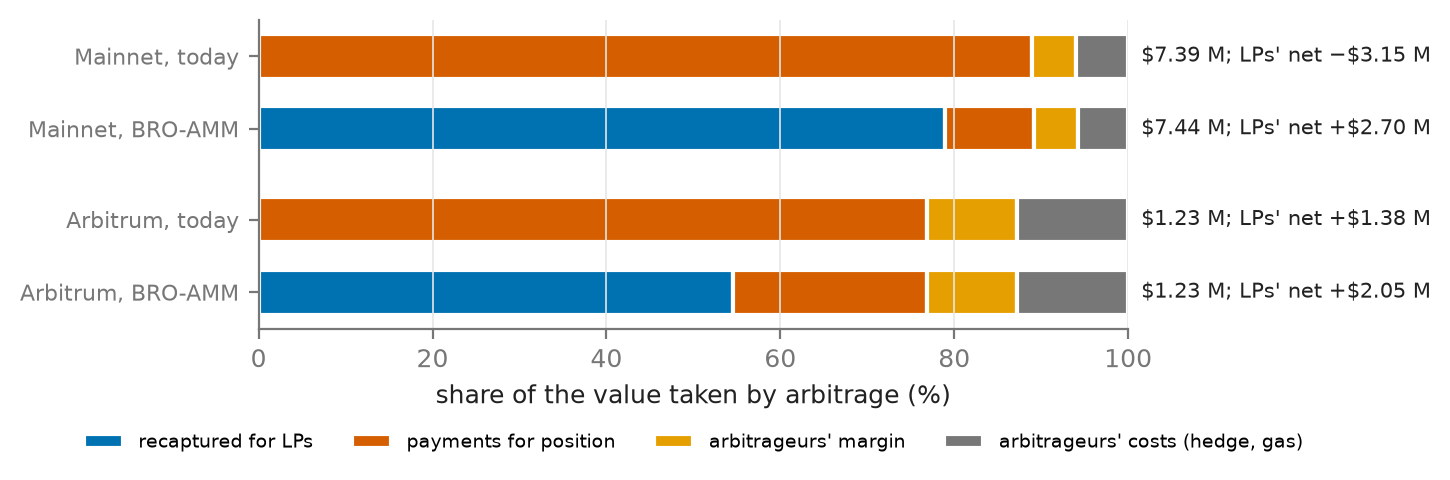
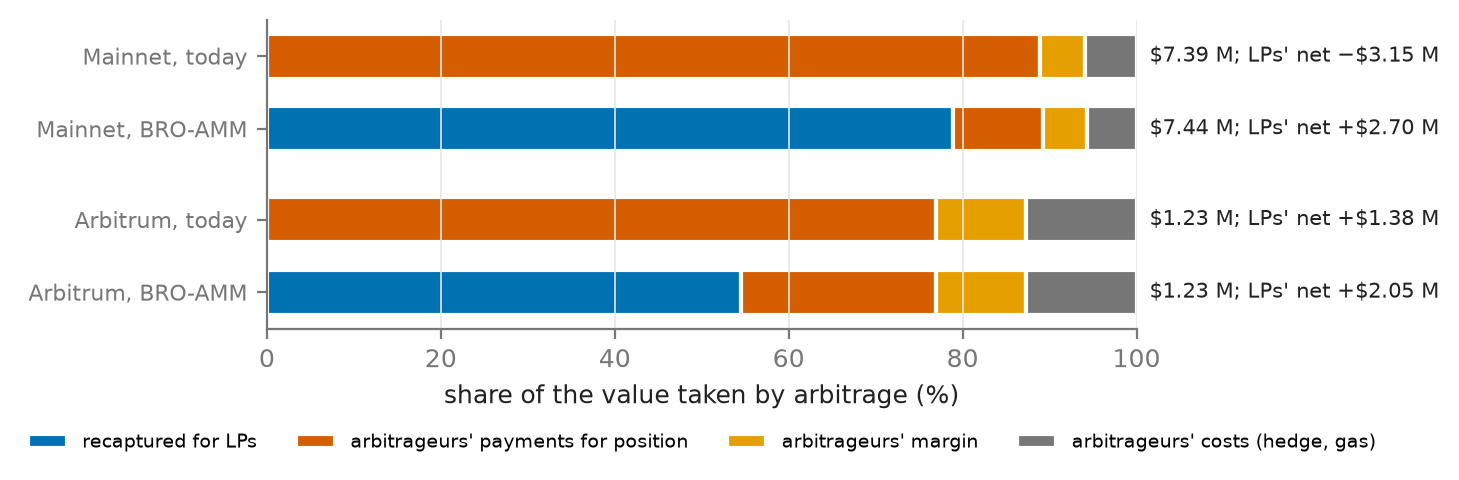
docs: paper says who pays whom for position
- Fixed documentation of "payments for position" as arbitrageurs' payments to block builders, defined in §5.1 and named so in the abstract, §5.3, Table 3, the conclusion and Appendix I
- Improved function figure legend and caption of the value split to name payer and recipient

diff --git a/pipeline/figures.py b/pipeline/figures.py
@@ -345,7 +345,7 @@ def value_split() -> None:
             parts = [x["lp_recapture_m"], x["builder_payments_m"], x["arb_margin_m"],
                      loss - x["builder_payments_m"] - x["arb_margin_m"]]
             bars.append((f"{chain}, {lab}", parts, x["lp_net_m"]))
-    segs = [("recaptured for LPs", C[0]), ("payments for position", C[3]),
+    segs = [("recaptured for LPs", C[0]), ("arbitrageurs' payments for position", C[3]),
             ("arbitrageurs' margin", C[1]), ("arbitrageurs' costs (hedge, gas)", MUTED)]
     fig, ax = plt.subplots(figsize=(7.4, 2.6))
     for k, (lab, parts, net) in enumerate(bars):

diff --git a/paper.rendered.md b/paper.rendered.md
@@ -6,7 +6,7 @@
 
 ## Abstract
 
-Liquidity providers (LPs) in automated market makers lose value to arbitrageurs trading against stale on-chain prices, and no existing AMM bounds this loss by design, so passive liquidity is not yet a low-risk DeFi primitive. BRO-AMM (Bonded Reconciliation Oracle AMM) is a Uniswap v4 hook built on one principle: after a block, chain history and signed market prices establish what each swap did to LPs, and that record can settle it. A price-correcting swap keeps an allowance per unit of volume, discovered on-chain; extraction beyond it is recaptured for LPs from stake posted before trading, which also bounds what arbitrageurs can pay for block position. Traders who overpay mint a reputation token (REP) that lowers their fees. On six months of Ethereum ETH/USDC data, a pool charging 3 bp instead of 5 bp leaves LPs ahead of today in every simulated scenario, by \$5.8–6.5M, while retail pays about 3.3 bp all-in and payments for position fall by 83–86%; an appendix adapts the design to Arbitrum's sequencer. Settlement costs 0.18× the gas of the swaps it settles.
+Liquidity providers (LPs) in automated market makers lose value to arbitrageurs trading against stale on-chain prices, and no existing AMM bounds this loss by design, so passive liquidity is not yet a low-risk DeFi primitive. BRO-AMM (Bonded Reconciliation Oracle AMM) is a Uniswap v4 hook built on one principle: after a block, chain history and signed market prices establish what each swap did to LPs, and that record can settle it. A price-correcting swap keeps an allowance per unit of volume, discovered on-chain; extraction beyond it is recaptured for LPs from stake posted before trading, which also bounds what arbitrageurs can pay for block position. Traders who overpay mint a reputation token (REP) that lowers their fees. On six months of Ethereum ETH/USDC data, a pool charging 3 bp instead of 5 bp leaves LPs ahead of today in every simulated scenario, by \$5.8–6.5M, while retail pays about 3.3 bp all-in and arbitrageurs' payments to block builders fall by 83–86%; an appendix adapts the design to Arbitrum's sequencer. Settlement costs 0.18× the gas of the swaps it settles.
 
 ## 1. Introduction
 
@@ -233,7 +233,7 @@ Above par, growing demand would price new intermediaries out of the discount. Mi
 
 ### 5.1 Data and method
 
-We study the Uniswap v3 ETH/USDC 5 bp pool on Ethereum mainnet from 1 March to 31 August 2026 (Table 2); Appendix I repeats the evaluation on the corresponding WETH/USDC pool on Arbitrum. The benchmark is Binance ETHUSDT corrected by USDCUSDT, with a touch-level bid/ask proxy built from aggressor-flagged trades. A stable–stable control pool, where no extraction is expected, scored a median absolute $Q_{\mathrm{LP}}$ of 0.9–1.1 bp (95th percentile 2.3 bp), inside the band within which the USDC/USDT peg itself moves (99th percentile 12.8 bp on mainnet). Designs are compared in a block-level simulation that replays the real oracle path and non-arbitrage flow against a population of optimising arbitrageurs with costs from 0.3 to 2.5 bp (Appendix C). Three cost scenarios hold these costs fixed or multiply them by four or by eight from June, and a *worst-case* figure is the least favourable of the three. *LPs' net* is the LPs' fee income less their losses to arbitrage over the six months, and *LPs' gain* its change from the same pool today. A design *keeps the pool rebalanced* if, relative to today, the share of blocks that end within the fee plus 1 bp of the benchmark falls by at most 0.5 percentage points and the volume-weighted staleness of the price users trade against rises by at most 0.1 bp.
+We study the Uniswap v3 ETH/USDC 5 bp pool on Ethereum mainnet from 1 March to 31 August 2026 (Table 2); Appendix I repeats the evaluation on the corresponding WETH/USDC pool on Arbitrum. The benchmark is Binance ETHUSDT corrected by USDCUSDT, with a touch-level bid/ask proxy built from aggressor-flagged trades. A stable–stable control pool, where no extraction is expected, scored a median absolute $Q_{\mathrm{LP}}$ of 0.9–1.1 bp (95th percentile 2.3 bp), inside the band within which the USDC/USDT peg itself moves (99th percentile 12.8 bp on mainnet). Designs are compared in a block-level simulation that replays the real oracle path and non-arbitrage flow against a population of optimising arbitrageurs with costs from 0.3 to 2.5 bp (Appendix C). Three cost scenarios hold these costs fixed or multiply them by four or by eight from June, and a *worst-case* figure is the least favourable of the three. *LPs' net* is the LPs' fee income less their losses to arbitrage over the six months, and *LPs' gain* its change from the same pool today. *Payments to builders* are what arbitrageurs pay block builders, directly or through priority fees, to have their corrections ordered first; they are part of what LPs lose to arbitrage. A design *keeps the pool rebalanced* if, relative to today, the share of blocks that end within the fee plus 1 bp of the benchmark falls by at most 0.5 percentage points and the volume-weighted staleness of the price users trade against rises by at most 0.1 bp.
 
 | | Ethereum mainnet |
 |---|---|
@@ -257,7 +257,7 @@ Because LPs keep most of what arbitrage took, a BRO-AMM pool can charge less tha
 | LPs' gain over today, worst cost scenario | — | +\$5.76 M |
 | Retail's price: fee + charges + REP holding | 5.00 bp | 3.31 bp |
 | Staleness of the price users trade at | 12.75 bp | 11.54 bp |
-| Payments for position | \$6.57 M | \$1.09 M |
+| Arbitrageurs' payments to builders | \$6.57 M | \$1.09 M |
 | Arbitrageurs' margin after costs | \$0.38 M | \$0.51 M |
 | Recaptured from arbitrageurs | — | \$6.74 M |
 | Charged to other correcting swaps | — | \$1.96 M |
@@ -265,13 +265,13 @@ Because LPs keep most of what arbitrage took, a BRO-AMM pool can charge less tha
 
 *Table 3. Today's pool against BRO-AMM at a lower fee, Ethereum mainnet. Retail's charges and holding cost are upper bounds: charges are measured against the mid price on today's, staler flow, and holding assumes daily epochs and an expected 50% annual loss on REP's price.*
 
-In every cost scenario, LPs end ahead of today by \$5.76–6.52 M, retail pays about 1.7 bp less, users trade against fresher prices, payments for position fall by 83–86%, and the pool is as well rebalanced as today. Arbitrageurs keep slightly more than today. Most of what other correcting swaps are charged comes from informed flow that is not arbitrage by our labels: unlabelled flow would pay 7 bp of its volume, retail aggregators 0.1–0.2 bp (Appendix G.5). The sensitivity studies below and in the appendices leave users' corrections uncharged, which understates LPs' result by about \$1.9 M.
+In every cost scenario, LPs end ahead of today by \$5.76–6.52 M, retail pays about 1.7 bp less, users trade against fresher prices, arbitrageurs' payments to builders fall by 83–86%, and the pool is as well rebalanced as today. Arbitrageurs keep slightly more than today. Most of what other correcting swaps are charged comes from informed flow that is not arbitrage by our labels: unlabelled flow would pay 7 bp of its volume, retail aggregators 0.1–0.2 bp (Appendix G.5). The sensitivity studies below and in the appendices leave users' corrections uncharged, which understates LPs' result by about \$1.9 M.
 
 ![Value split](figures/fig_value_split.png)
 
-*Figure 4. Division of the value taken by arbitrage at today's 5 bp fee, stable costs. Totals and LPs' net position at right.*
+*Figure 4. Division of the value taken by arbitrage at today's 5 bp fee, stable costs: recaptured for LPs, paid by arbitrageurs for position (to block builders on mainnet), kept by arbitrageurs as margin, or spent on their hedging and gas. Totals and LPs' net position at right.*
 
-At today's 5 bp fee the same mechanism moves value rather than creating it: arbitrage takes about as much from the pool as before, but most of what was spent competing for position is recaptured for LPs, while arbitrageurs' margin is unchanged (Figure 4, Table 5 in Appendix C). If users route away, the pool keeps a share of their flow, and LPs beat today even with none of it, by \$1.24 M in the worst case (Appendix C).
+At today's 5 bp fee the same mechanism moves value rather than creating it: arbitrage takes about as much from the pool as before, but most of what arbitrageurs paid block builders for position is recaptured for LPs, while arbitrageurs' margin is unchanged (Figure 4, Table 5 in Appendix C). If users route away, the pool keeps a share of their flow, and LPs beat today even with none of it, by \$1.24 M in the worst case (Appendix C).
 
 **How far the fee can fall.** LPs beat today at every fee down to 0.5 bp and stay positive down to 3 bp; if the cheaper quote draws other venues' flow and LPs follow with liquidity, their net per unit of liquidity at 3 bp rises from \$1.41 M to \$1.95 M at three times today's flow (Appendix C). On an arrival-ordered rollup the headroom is narrower: on Arbitrum users already close many small gaps for the fee alone, and the pool beats today at 4 bp but not at 3 bp (Appendix I).
 
@@ -327,7 +327,7 @@ The benchmark is a Binance touch proxy, so oracle error is modelled rather than 
 
 BRO-AMM is offered as a low-risk DeFi primitive for exchange. It shows that loss-versus-rebalancing can be recaptured by a plain Uniswap v4 hook (Uniswap Labs, n.d.), without delaying execution, without consulting an oracle at trade time and without relying on honest ordering. Execution remains synchronous; pricing is completed after the block against signed prices, at a decision instant that is measured from the data and shared by every swap in the block, so that no position buys a more lenient benchmark. Arbitrage is retained as a paid job whose allowance is discovered on-chain, extraction beyond the allowance is collected from stake posted before trading, and benign traders earn the stake that lowers their fees.
 
-On six months of Ethereum data, a fixed schedule applied with perfect information recaptured 73% of extraction while overcharging benign flow by less than 0.1 bp. With the allowance discovered on-chain, simulation shows the value that arbitrage takes moving from payments for position to LPs, enough for a pool to undercut the one it replaces: at 3 bp against today's 5 bp, LPs end ahead of today in every cost scenario, by \$5.8–6.5 M over six months, retail pays about 3.3 bp all-in, users trade at fresher prices, payments for position fall by 83–86%, and the pool stays as well rebalanced as today. On Arbitrum, where the sequencer orders by arrival, a count of competing senders replaces urgency and the pool undercuts today at 4 bp (Appendix I). An optional correction lane removes the dependence on arbitrage stake, and settlement costs 0.18 of the swaps' execution gas, paid from a tank that every swap prefunds. Its binding requirements are a sub-second oracle on fast chains and a tolerance matched to the feed's error. Its residual risks are the signed oracle, the contracts themselves and the market for REP; the last is bounded by solvency at par but not yet observed. Oracle error measured on the signed feed itself, the behaviour of REP in a live market, and a reputation shared across pools remain open.
+On six months of Ethereum data, a fixed schedule applied with perfect information recaptured 73% of extraction while overcharging benign flow by less than 0.1 bp. With the allowance discovered on-chain, simulation shows the value that arbitrage takes moving from arbitrageurs' payments to builders to LPs, enough for a pool to undercut the one it replaces: at 3 bp against today's 5 bp, LPs end ahead of today in every cost scenario, by \$5.8–6.5 M over six months, retail pays about 3.3 bp all-in, users trade at fresher prices, arbitrageurs' payments to builders fall by 83–86%, and the pool stays as well rebalanced as today. On Arbitrum, where the sequencer orders by arrival, a count of competing senders replaces urgency and the pool undercuts today at 4 bp (Appendix I). An optional correction lane removes the dependence on arbitrage stake, and settlement costs 0.18 of the swaps' execution gas, paid from a tank that every swap prefunds. Its binding requirements are a sub-second oracle on fast chains and a tolerance matched to the feed's error. Its residual risks are the signed oracle, the contracts themselves and the market for REP; the last is bounded by solvency at par but not yet observed. Oracle error measured on the signed feed itself, the behaviour of REP in a live market, and a reputation shared across pools remain open.
 
 ## Code and data availability
 
@@ -480,12 +480,12 @@ Every block is replayed in order — mainnet's 1.32 M, and all 63.4 M Arbitrum b
 | Fees from users | \$4.24 M | \$4.27 M | \$2.61 M | \$2.61 M |
 | Lost to arbitrage | \$7.39 M | \$1.57 M | \$1.23 M | \$0.56 M |
 | Recaptured from arbitrage | — | \$5.87 M | — | \$0.67 M |
-| Payments for position | \$6.57 M | \$0.77 M | \$0.94 M | \$0.27 M |
+| Arbitrageurs' payments for position | \$6.57 M | \$0.77 M | \$0.94 M | \$0.27 M |
 | Arbitrageurs' margin after costs | \$0.38 M | \$0.38 M | \$0.13 M | \$0.13 M |
 | Users' price staleness, volume-weighted | 12.75 bp | 12.54 bp | 4.28 bp | 4.28 bp |
 | Blocks ending within the band | 99.54% | 99.40% | 100.00% | 100.00% |
 
-*Table 5. Today's pools against BRO-AMM at today's 5 bp fee, users' corrections not charged. LPs' net is fees from users less what is lost to arbitrage after recapture.*
+*Table 5. Today's pools against BRO-AMM at today's 5 bp fee, users' corrections not charged. LPs' net is fees from users less what is lost to arbitrage after recapture. Arbitrageurs' payments for position go to block builders on mainnet and to winning the race to be ordered first on Arbitrum.*
 
 **Retention of user flow.** Every non-arbitrage swap is scaled by the share of user flow the pool keeps, its volume, fees and price impact alike, under the final design; LPs' gain is measured against today's pool at full flow.
 
@@ -633,7 +633,7 @@ An individual LP that extracts from its own pool to burn REP gains little by com
 
 *Table 10. LPs' worst-case gain over today across the three cost scenarios, for rejected variants of the correction lane; Table 4 gives the adopted design.*
 
-**F.5 Allowance bonuses.** Raising the allowance beyond the arbitrageur's cost is rent, and rent is competed away for position. A flat premium of 0.5 bp tripled payments to builders in an early simulation. A bonus proportional to the market's jump within a block, paid only for corrections in that block so that waiting forfeits it, cost LPs 17–31% of their worst-case gain on mainnet and 11–17% on Arbitrum at REP's mint rate, while payments for position roughly doubled; with REP valued below its mint rate it did not prevent stalls. Keying the bonus to the standing gap instead, which rewards waiting, did no better.
+**F.5 Allowance bonuses.** Raising the allowance beyond the arbitrageur's cost is rent, and rent is competed away for position. A flat premium of 0.5 bp tripled payments to builders in an early simulation. A bonus proportional to the market's jump within a block, paid only for corrections in that block so that waiting forfeits it, cost LPs 17–31% of their worst-case gain on mainnet and 11–17% on Arbitrum at REP's mint rate, while arbitrageurs' payments to builders roughly doubled; with REP valued below its mint rate it did not prevent stalls. Keying the bonus to the standing gap instead, which rewards waiting, did no better.
 
 **F.6 Premium mint.** An arbitrageur without stake pays $f_{\max}$; minting it REP at the internal rate for the premium above $f_{\min}$, net of its charge, lets its first trades buy the stake that lowers its later fees. Valued at par, this bootstrapped a pool from zero stake at $f_{\max}$ up to 2,000 bp on both chains, matching the fully staked result. But an arbitrageur that values REP at a fraction $v$ of par bears a hurdle of about $(1 - v)(f_{\max} - f_{\min})$ per unit of volume, and the pool tolerated little discount: at $v$ = 0.99 it passed the rebalancing test only at $f_{\max}$ = 500 bp, losing 15% of LPs' gain; at $v$ = 0.98 it failed; and at $v$ = 0.95 it froze for $f_{\max} \ge$ 1,000 bp. Liveness would rest on REP trading at its mint rate, which §4.9 does not guarantee; the correction lane does not depend on it.
 
@@ -737,7 +737,7 @@ Each rollup orders transactions by its own sequencer rules, so the competition s
 
 **Express-lane concentration.** On Arbitrum, three entities won almost all Timeboost auctions (Messias and Torres 2025). With one of three express-lane holders winning, in each one-minute round, every correction it can profit from, and every correcting swap charged, LPs' worst-case gain at 5 bp is +\$0.60 M with $K_{\min} = 4$ and +\$0.84 M with $K_{\min} = 3$, against +\$0.83 M in an open race: requiring four senders when three dominate keeps the allowance higher, whereas three recovers the open-race result. Both keep the pool rebalanced.
 
-**I.3 Results.** Every correcting swap charged, the sender rule at $K_{\min} = 3$ and a 4 bp fee leave LPs ahead of today's 5 bp pool by \$0.38–0.59 M across the cost scenarios (\$1.97 M against \$1.38 M with stable costs), with retail paying about 4.38 bp all-in (4 bp, 0.20–0.26 bp of retail charges, up to 0.12 bp of REP holding), users trading at fresher prices (3.62 against 4.28 bp), payments for position falling from \$0.94 M to \$0.24 M, and the pool as rebalanced as today. At 3 bp the sender rule falls short of today, because users already close many small gaps for the fee alone and a lower fee hands them to paid arbitrageurs (Table 7 in Appendix C). With users' corrections uncharged, LPs at today's fee gain \$0.65 M in the worst case; if users route away, LPs need to keep about 85% of their flow, because users' own trades do part of the rebalancing (Table 6). The sender rule settles at 1.46 bp and absorbs the cost shock without a raise (Figure 11), and under dropout and withholding costs 2% of LPs' gain (Table 11). Without arbitrage stake, fresh accounts take nothing at $f_{\max}$ = 500 bp; stake of about 25 times $\rho$ times mean daily arbitrage volume, \$0.34 M, keeps the pool rebalanced if one staker covers all arbitrageurs; and the correction lane restores the fully staked result, \$0.65 M, unless its report is a second old, when the gain falls to \$0.23 M: a one-second-old feed halves recapture, so rollups require a sub-second pull oracle (§5.7). Settlement costs 0.19× the execution gas of the settled swaps, and a gas tank needs 0.64 k gas per swap (Figures 13–14).
+**I.3 Results.** Every correcting swap charged, the sender rule at $K_{\min} = 3$ and a 4 bp fee leave LPs ahead of today's 5 bp pool by \$0.38–0.59 M across the cost scenarios (\$1.97 M against \$1.38 M with stable costs), with retail paying about 4.38 bp all-in (4 bp, 0.20–0.26 bp of retail charges, up to 0.12 bp of REP holding), users trading at fresher prices (3.62 against 4.28 bp), arbitrageurs' spending to be ordered first falling from \$0.94 M to \$0.24 M, and the pool as rebalanced as today. At 3 bp the sender rule falls short of today, because users already close many small gaps for the fee alone and a lower fee hands them to paid arbitrageurs (Table 7 in Appendix C). With users' corrections uncharged, LPs at today's fee gain \$0.65 M in the worst case; if users route away, LPs need to keep about 85% of their flow, because users' own trades do part of the rebalancing (Table 6). The sender rule settles at 1.46 bp and absorbs the cost shock without a raise (Figure 11), and under dropout and withholding costs 2% of LPs' gain (Table 11). Without arbitrage stake, fresh accounts take nothing at $f_{\max}$ = 500 bp; stake of about 25 times $\rho$ times mean daily arbitrage volume, \$0.34 M, keeps the pool rebalanced if one staker covers all arbitrageurs; and the correction lane restores the fully staked result, \$0.65 M, unless its report is a second old, when the gain falls to \$0.23 M: a one-second-old feed halves recapture, so rollups require a sub-second pull oracle (§5.7). Settlement costs 0.19× the execution gas of the settled swaps, and a gas tank needs 0.64 k gas per swap (Figures 13–14).
 
 **I.4 A per-gap reverse auction.** Instead of one allowance for all corrections, each gap's allowance could start low and rise with its age, $m(t) = \min(m_0 + \text{slope} \cdot \text{age}, m_{\text{cap}})$, so that the first corrector whose cost it covers takes the gap at that price; correctors then compete on the price they will work for, gap by gap. The age is computed at reconciliation from the same signed prices as the charge, and resets only when a block ends within $f + \varepsilon + m$ of the benchmark, so that a token correction cannot hold the allowance down. On Arbitrum, with $m_0$ = 0.5 bp, a 5 bp cap and every correcting swap charged, the ramp beats the sender rule when arbitrageurs act as soon as the allowance covers their cost, but not when they hold out for a margin above it, which a reverse Dutch auction invites. A slow ramp then leaves gaps standing; a steep one pays a whole step of about 1 bp per 250 ms block:
 

diff --git a/paper.md b/paper.md
@@ -4,7 +4,7 @@
 
 ## Abstract
 
-Liquidity providers (LPs) in automated market makers lose value to arbitrageurs trading against stale on-chain prices, and no existing AMM bounds this loss by design, so passive liquidity is not yet a low-risk DeFi primitive. BRO-AMM (Bonded Reconciliation Oracle AMM) is a Uniswap v4 hook built on one principle: after a block, chain history and signed market prices establish what each swap did to LPs, and that record can settle it. A price-correcting swap keeps an allowance per unit of volume, discovered on-chain; extraction beyond it is recaptured for LPs from stake posted before trading, which also bounds what arbitrageurs can pay for block position. Traders who overpay mint a reputation token (REP) that lowers their fees. On six months of Ethereum ETH/USDC data, a pool charging 3 bp instead of 5 bp leaves LPs ahead of today in every simulated scenario, by \$5.8–6.5M, while retail pays about 3.3 bp all-in and payments for position fall by 83–86%; an appendix adapts the design to Arbitrum's sequencer. Settlement costs 0.18× the gas of the swaps it settles.
+Liquidity providers (LPs) in automated market makers lose value to arbitrageurs trading against stale on-chain prices, and no existing AMM bounds this loss by design, so passive liquidity is not yet a low-risk DeFi primitive. BRO-AMM (Bonded Reconciliation Oracle AMM) is a Uniswap v4 hook built on one principle: after a block, chain history and signed market prices establish what each swap did to LPs, and that record can settle it. A price-correcting swap keeps an allowance per unit of volume, discovered on-chain; extraction beyond it is recaptured for LPs from stake posted before trading, which also bounds what arbitrageurs can pay for block position. Traders who overpay mint a reputation token (REP) that lowers their fees. On six months of Ethereum ETH/USDC data, a pool charging 3 bp instead of 5 bp leaves LPs ahead of today in every simulated scenario, by \$5.8–6.5M, while retail pays about 3.3 bp all-in and arbitrageurs' payments to block builders fall by 83–86%; an appendix adapts the design to Arbitrum's sequencer. Settlement costs 0.18× the gas of the swaps it settles.
 
 ## 1. Introduction
 
@@ -231,7 +231,7 @@ Above par, growing demand would price new intermediaries out of the discount. Mi
 
 ### 5.1 Data and method
 
-We study the Uniswap v3 ETH/USDC 5 bp pool on Ethereum mainnet from 1 March to 31 August 2026 (Table 2); Appendix I repeats the evaluation on the corresponding WETH/USDC pool on Arbitrum. The benchmark is Binance ETHUSDT corrected by USDCUSDT, with a touch-level bid/ask proxy built from aggressor-flagged trades. A stable–stable control pool, where no extraction is expected, scored a median absolute $Q_{\mathrm{LP}}$ of 0.9–1.1 bp (95th percentile 2.3 bp), inside the band within which the USDC/USDT peg itself moves (99th percentile 12.8 bp on mainnet). Designs are compared in a block-level simulation that replays the real oracle path and non-arbitrage flow against a population of optimising arbitrageurs with costs from 0.3 to 2.5 bp (Appendix C). Three cost scenarios hold these costs fixed or multiply them by four or by eight from June, and a *worst-case* figure is the least favourable of the three. *LPs' net* is the LPs' fee income less their losses to arbitrage over the six months, and *LPs' gain* its change from the same pool today. A design *keeps the pool rebalanced* if, relative to today, the share of blocks that end within the fee plus 1 bp of the benchmark falls by at most 0.5 percentage points and the volume-weighted staleness of the price users trade against rises by at most 0.1 bp.
+We study the Uniswap v3 ETH/USDC 5 bp pool on Ethereum mainnet from 1 March to 31 August 2026 (Table 2); Appendix I repeats the evaluation on the corresponding WETH/USDC pool on Arbitrum. The benchmark is Binance ETHUSDT corrected by USDCUSDT, with a touch-level bid/ask proxy built from aggressor-flagged trades. A stable–stable control pool, where no extraction is expected, scored a median absolute $Q_{\mathrm{LP}}$ of 0.9–1.1 bp (95th percentile 2.3 bp), inside the band within which the USDC/USDT peg itself moves (99th percentile 12.8 bp on mainnet). Designs are compared in a block-level simulation that replays the real oracle path and non-arbitrage flow against a population of optimising arbitrageurs with costs from 0.3 to 2.5 bp (Appendix C). Three cost scenarios hold these costs fixed or multiply them by four or by eight from June, and a *worst-case* figure is the least favourable of the three. *LPs' net* is the LPs' fee income less their losses to arbitrage over the six months, and *LPs' gain* its change from the same pool today. *Payments to builders* are what arbitrageurs pay block builders, directly or through priority fees, to have their corrections ordered first; they are part of what LPs lose to arbitrage. A design *keeps the pool rebalanced* if, relative to today, the share of blocks that end within the fee plus 1 bp of the benchmark falls by at most 0.5 percentage points and the volume-weighted staleness of the price users trade against rises by at most 0.1 bp.
 
 | | Ethereum mainnet |
 |---|---|
@@ -255,7 +255,7 @@ Because LPs keep most of what arbitrage took, a BRO-AMM pool can charge less tha
 | LPs' gain over today, worst cost scenario | — | +\$5.76 M |
 | Retail's price: fee + charges + REP holding | 5.00 bp | 3.31 bp |
 | Staleness of the price users trade at | 12.75 bp | 11.54 bp |
-| Payments for position | \$6.57 M | \$1.09 M |
+| Arbitrageurs' payments to builders | \$6.57 M | \$1.09 M |
 | Arbitrageurs' margin after costs | \$0.38 M | \$0.51 M |
 | Recaptured from arbitrageurs | — | \$6.74 M |
 | Charged to other correcting swaps | — | \$1.96 M |
@@ -263,13 +263,13 @@ Because LPs keep most of what arbitrage took, a BRO-AMM pool can charge less tha
 
 *Table 3. Today's pool against BRO-AMM at a lower fee, Ethereum mainnet. Retail's charges and holding cost are upper bounds: charges are measured against the mid price on today's, staler flow, and holding assumes daily epochs and an expected 50% annual loss on REP's price.*
 
-In every cost scenario, LPs end ahead of today by \$5.76–6.52 M, retail pays about 1.7 bp less, users trade against fresher prices, payments for position fall by 83–86%, and the pool is as well rebalanced as today. Arbitrageurs keep slightly more than today. Most of what other correcting swaps are charged comes from informed flow that is not arbitrage by our labels: unlabelled flow would pay 7 bp of its volume, retail aggregators 0.1–0.2 bp (Appendix G.5). The sensitivity studies below and in the appendices leave users' corrections uncharged, which understates LPs' result by about \$1.9 M.
+In every cost scenario, LPs end ahead of today by \$5.76–6.52 M, retail pays about 1.7 bp less, users trade against fresher prices, arbitrageurs' payments to builders fall by 83–86%, and the pool is as well rebalanced as today. Arbitrageurs keep slightly more than today. Most of what other correcting swaps are charged comes from informed flow that is not arbitrage by our labels: unlabelled flow would pay 7 bp of its volume, retail aggregators 0.1–0.2 bp (Appendix G.5). The sensitivity studies below and in the appendices leave users' corrections uncharged, which understates LPs' result by about \$1.9 M.
 
 ![Value split](figures/fig_value_split.png)
 
-*Figure 4. Division of the value taken by arbitrage at today's 5 bp fee, stable costs. Totals and LPs' net position at right.*
+*Figure 4. Division of the value taken by arbitrage at today's 5 bp fee, stable costs: recaptured for LPs, paid by arbitrageurs for position (to block builders on mainnet), kept by arbitrageurs as margin, or spent on their hedging and gas. Totals and LPs' net position at right.*
 
-At today's 5 bp fee the same mechanism moves value rather than creating it: arbitrage takes about as much from the pool as before, but most of what was spent competing for position is recaptured for LPs, while arbitrageurs' margin is unchanged (Figure 4, Table 5 in Appendix C). If users route away, the pool keeps a share of their flow, and LPs beat today even with none of it, by \$1.24 M in the worst case (Appendix C).
+At today's 5 bp fee the same mechanism moves value rather than creating it: arbitrage takes about as much from the pool as before, but most of what arbitrageurs paid block builders for position is recaptured for LPs, while arbitrageurs' margin is unchanged (Figure 4, Table 5 in Appendix C). If users route away, the pool keeps a share of their flow, and LPs beat today even with none of it, by \$1.24 M in the worst case (Appendix C).
 
 **How far the fee can fall.** LPs beat today at every fee down to 0.5 bp and stay positive down to 3 bp; if the cheaper quote draws other venues' flow and LPs follow with liquidity, their net per unit of liquidity at 3 bp rises from \$1.41 M to \$1.95 M at three times today's flow (Appendix C). On an arrival-ordered rollup the headroom is narrower: on Arbitrum users already close many small gaps for the fee alone, and the pool beats today at 4 bp but not at 3 bp (Appendix I).
 
@@ -325,7 +325,7 @@ The benchmark is a Binance touch proxy, so oracle error is modelled rather than 
 
 BRO-AMM is offered as a low-risk DeFi primitive for exchange. It shows that loss-versus-rebalancing can be recaptured by a plain Uniswap v4 hook [@uniswapV4core], without delaying execution, without consulting an oracle at trade time and without relying on honest ordering. Execution remains synchronous; pricing is completed after the block against signed prices, at a decision instant that is measured from the data and shared by every swap in the block, so that no position buys a more lenient benchmark. Arbitrage is retained as a paid job whose allowance is discovered on-chain, extraction beyond the allowance is collected from stake posted before trading, and benign traders earn the stake that lowers their fees.
 
-On six months of Ethereum data, a fixed schedule applied with perfect information recaptured 73% of extraction while overcharging benign flow by less than 0.1 bp. With the allowance discovered on-chain, simulation shows the value that arbitrage takes moving from payments for position to LPs, enough for a pool to undercut the one it replaces: at 3 bp against today's 5 bp, LPs end ahead of today in every cost scenario, by \$5.8–6.5 M over six months, retail pays about 3.3 bp all-in, users trade at fresher prices, payments for position fall by 83–86%, and the pool stays as well rebalanced as today. On Arbitrum, where the sequencer orders by arrival, a count of competing senders replaces urgency and the pool undercuts today at 4 bp (Appendix I). An optional correction lane removes the dependence on arbitrage stake, and settlement costs 0.18 of the swaps' execution gas, paid from a tank that every swap prefunds. Its binding requirements are a sub-second oracle on fast chains and a tolerance matched to the feed's error. Its residual risks are the signed oracle, the contracts themselves and the market for REP; the last is bounded by solvency at par but not yet observed. Oracle error measured on the signed feed itself, the behaviour of REP in a live market, and a reputation shared across pools remain open.
+On six months of Ethereum data, a fixed schedule applied with perfect information recaptured 73% of extraction while overcharging benign flow by less than 0.1 bp. With the allowance discovered on-chain, simulation shows the value that arbitrage takes moving from arbitrageurs' payments to builders to LPs, enough for a pool to undercut the one it replaces: at 3 bp against today's 5 bp, LPs end ahead of today in every cost scenario, by \$5.8–6.5 M over six months, retail pays about 3.3 bp all-in, users trade at fresher prices, arbitrageurs' payments to builders fall by 83–86%, and the pool stays as well rebalanced as today. On Arbitrum, where the sequencer orders by arrival, a count of competing senders replaces urgency and the pool undercuts today at 4 bp (Appendix I). An optional correction lane removes the dependence on arbitrage stake, and settlement costs 0.18 of the swaps' execution gas, paid from a tank that every swap prefunds. Its binding requirements are a sub-second oracle on fast chains and a tolerance matched to the feed's error. Its residual risks are the signed oracle, the contracts themselves and the market for REP; the last is bounded by solvency at par but not yet observed. Oracle error measured on the signed feed itself, the behaviour of REP in a live market, and a reputation shared across pools remain open.
 
 ## Code and data availability
 
@@ -418,12 +418,12 @@ Every block is replayed in order — mainnet's 1.32 M, and all 63.4 M Arbitrum b
 | Fees from users | \$4.24 M | \$4.27 M | \$2.61 M | \$2.61 M |
 | Lost to arbitrage | \$7.39 M | \$1.57 M | \$1.23 M | \$0.56 M |
 | Recaptured from arbitrage | — | \$5.87 M | — | \$0.67 M |
-| Payments for position | \$6.57 M | \$0.77 M | \$0.94 M | \$0.27 M |
+| Arbitrageurs' payments for position | \$6.57 M | \$0.77 M | \$0.94 M | \$0.27 M |
 | Arbitrageurs' margin after costs | \$0.38 M | \$0.38 M | \$0.13 M | \$0.13 M |
 | Users' price staleness, volume-weighted | 12.75 bp | 12.54 bp | 4.28 bp | 4.28 bp |
 | Blocks ending within the band | 99.54% | 99.40% | 100.00% | 100.00% |
 
-*Table 5. Today's pools against BRO-AMM at today's 5 bp fee, users' corrections not charged. LPs' net is fees from users less what is lost to arbitrage after recapture.*
+*Table 5. Today's pools against BRO-AMM at today's 5 bp fee, users' corrections not charged. LPs' net is fees from users less what is lost to arbitrage after recapture. Arbitrageurs' payments for position go to block builders on mainnet and to winning the race to be ordered first on Arbitrum.*
 
 **Retention of user flow.** Every non-arbitrage swap is scaled by the share of user flow the pool keeps, its volume, fees and price impact alike, under the final design; LPs' gain is measured against today's pool at full flow.
 
@@ -571,7 +571,7 @@ An individual LP that extracts from its own pool to burn REP gains little by com
 
 *Table 10. LPs' worst-case gain over today across the three cost scenarios, for rejected variants of the correction lane; Table 4 gives the adopted design.*
 
-**F.5 Allowance bonuses.** Raising the allowance beyond the arbitrageur's cost is rent, and rent is competed away for position. A flat premium of 0.5 bp tripled payments to builders in an early simulation. A bonus proportional to the market's jump within a block, paid only for corrections in that block so that waiting forfeits it, cost LPs 17–31% of their worst-case gain on mainnet and 11–17% on Arbitrum at REP's mint rate, while payments for position roughly doubled; with REP valued below its mint rate it did not prevent stalls. Keying the bonus to the standing gap instead, which rewards waiting, did no better.
+**F.5 Allowance bonuses.** Raising the allowance beyond the arbitrageur's cost is rent, and rent is competed away for position. A flat premium of 0.5 bp tripled payments to builders in an early simulation. A bonus proportional to the market's jump within a block, paid only for corrections in that block so that waiting forfeits it, cost LPs 17–31% of their worst-case gain on mainnet and 11–17% on Arbitrum at REP's mint rate, while arbitrageurs' payments to builders roughly doubled; with REP valued below its mint rate it did not prevent stalls. Keying the bonus to the standing gap instead, which rewards waiting, did no better.
 
 **F.6 Premium mint.** An arbitrageur without stake pays $f_{\max}$; minting it REP at the internal rate for the premium above $f_{\min}$, net of its charge, lets its first trades buy the stake that lowers its later fees. Valued at par, this bootstrapped a pool from zero stake at $f_{\max}$ up to 2,000 bp on both chains, matching the fully staked result. But an arbitrageur that values REP at a fraction $v$ of par bears a hurdle of about $(1 - v)(f_{\max} - f_{\min})$ per unit of volume, and the pool tolerated little discount: at $v$ = 0.99 it passed the rebalancing test only at $f_{\max}$ = 500 bp, losing 15% of LPs' gain; at $v$ = 0.98 it failed; and at $v$ = 0.95 it froze for $f_{\max} \ge$ 1,000 bp. Liveness would rest on REP trading at its mint rate, which §4.9 does not guarantee; the correction lane does not depend on it.
 
@@ -675,7 +675,7 @@ Each rollup orders transactions by its own sequencer rules, so the competition s
 
 **Express-lane concentration.** On Arbitrum, three entities won almost all Timeboost auctions [@messias2025timeboost]. With one of three express-lane holders winning, in each one-minute round, every correction it can profit from, and every correcting swap charged, LPs' worst-case gain at 5 bp is +\$0.60 M with $K_{\min} = 4$ and +\$0.84 M with $K_{\min} = 3$, against +\$0.83 M in an open race: requiring four senders when three dominate keeps the allowance higher, whereas three recovers the open-race result. Both keep the pool rebalanced.
 
-**I.3 Results.** Every correcting swap charged, the sender rule at $K_{\min} = 3$ and a 4 bp fee leave LPs ahead of today's 5 bp pool by \$0.38–0.59 M across the cost scenarios (\$1.97 M against \$1.38 M with stable costs), with retail paying about 4.38 bp all-in (4 bp, 0.20–0.26 bp of retail charges, up to 0.12 bp of REP holding), users trading at fresher prices (3.62 against 4.28 bp), payments for position falling from \$0.94 M to \$0.24 M, and the pool as rebalanced as today. At 3 bp the sender rule falls short of today, because users already close many small gaps for the fee alone and a lower fee hands them to paid arbitrageurs (Table 7 in Appendix C). With users' corrections uncharged, LPs at today's fee gain \$0.65 M in the worst case; if users route away, LPs need to keep about 85% of their flow, because users' own trades do part of the rebalancing (Table 6). The sender rule settles at 1.46 bp and absorbs the cost shock without a raise (Figure 11), and under dropout and withholding costs 2% of LPs' gain (Table 11). Without arbitrage stake, fresh accounts take nothing at $f_{\max}$ = 500 bp; stake of about 25 times $\rho$ times mean daily arbitrage volume, \$0.34 M, keeps the pool rebalanced if one staker covers all arbitrageurs; and the correction lane restores the fully staked result, \$0.65 M, unless its report is a second old, when the gain falls to \$0.23 M: a one-second-old feed halves recapture, so rollups require a sub-second pull oracle (§5.7). Settlement costs 0.19× the execution gas of the settled swaps, and a gas tank needs 0.64 k gas per swap (Figures 13–14).
+**I.3 Results.** Every correcting swap charged, the sender rule at $K_{\min} = 3$ and a 4 bp fee leave LPs ahead of today's 5 bp pool by \$0.38–0.59 M across the cost scenarios (\$1.97 M against \$1.38 M with stable costs), with retail paying about 4.38 bp all-in (4 bp, 0.20–0.26 bp of retail charges, up to 0.12 bp of REP holding), users trading at fresher prices (3.62 against 4.28 bp), arbitrageurs' spending to be ordered first falling from \$0.94 M to \$0.24 M, and the pool as rebalanced as today. At 3 bp the sender rule falls short of today, because users already close many small gaps for the fee alone and a lower fee hands them to paid arbitrageurs (Table 7 in Appendix C). With users' corrections uncharged, LPs at today's fee gain \$0.65 M in the worst case; if users route away, LPs need to keep about 85% of their flow, because users' own trades do part of the rebalancing (Table 6). The sender rule settles at 1.46 bp and absorbs the cost shock without a raise (Figure 11), and under dropout and withholding costs 2% of LPs' gain (Table 11). Without arbitrage stake, fresh accounts take nothing at $f_{\max}$ = 500 bp; stake of about 25 times $\rho$ times mean daily arbitrage volume, \$0.34 M, keeps the pool rebalanced if one staker covers all arbitrageurs; and the correction lane restores the fully staked result, \$0.65 M, unless its report is a second old, when the gain falls to \$0.23 M: a one-second-old feed halves recapture, so rollups require a sub-second pull oracle (§5.7). Settlement costs 0.19× the execution gas of the settled swaps, and a gas tank needs 0.64 k gas per swap (Figures 13–14).
 
 **I.4 A per-gap reverse auction.** Instead of one allowance for all corrections, each gap's allowance could start low and rise with its age, $m(t) = \min(m_0 + \text{slope} \cdot \text{age}, m_{\text{cap}})$, so that the first corrector whose cost it covers takes the gap at that price; correctors then compete on the price they will work for, gap by gap. The age is computed at reconciliation from the same signed prices as the charge, and resets only when a block ends within $f + \varepsilon + m$ of the benchmark, so that a token correction cannot hold the allowance down. On Arbitrum, with $m_0$ = 0.5 bp, a 5 bp cap and every correcting swap charged, the ramp beats the sender rule when arbitrageurs act as soon as the allowance covers their cost, but not when they hold out for a margin above it, which a reverse Dutch auction invites. A slow ramp then leaves gaps standing; a steep one pays a whole step of about 1 bp per 250 ms block:
 

diff --git a/README.md b/README.md
@@ -23,7 +23,7 @@ charging 3 bp (paper §5.3, Table 3; stable costs):
 |---|---|---|
 | LPs' net | −\$3.15 M | \$3.37 M |
 | Retail's price, all-in | 5.00 bp | 3.31 bp |
-| Payments for position | \$6.57 M | \$1.09 M |
+| Arbitrageurs' payments to block builders | \$6.57 M | \$1.09 M |
 | Arbitrageurs' margin | \$0.38 M | \$0.51 M |
 
 Across the three cost scenarios LPs end ahead of today by \$5.8–6.5 M, users trade at fresher prices,
